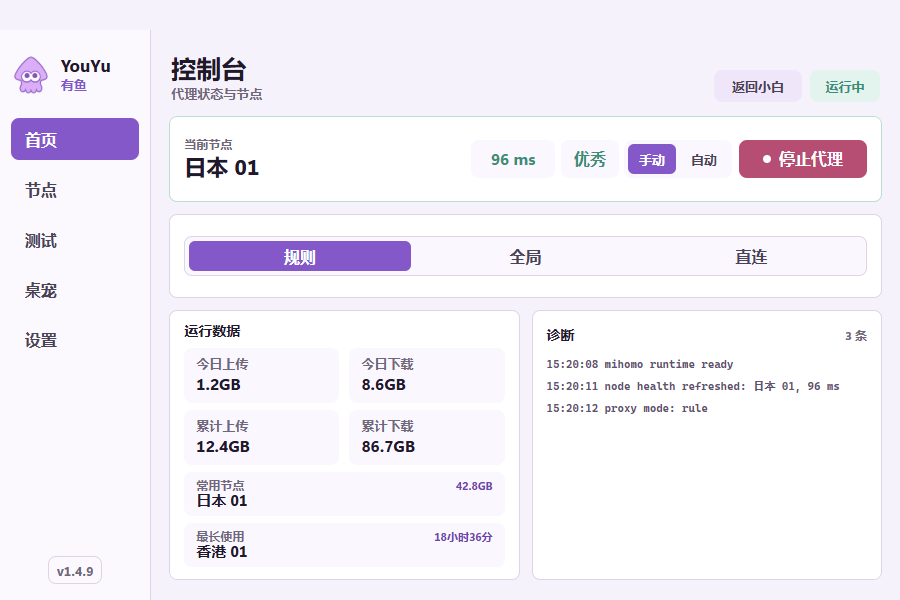
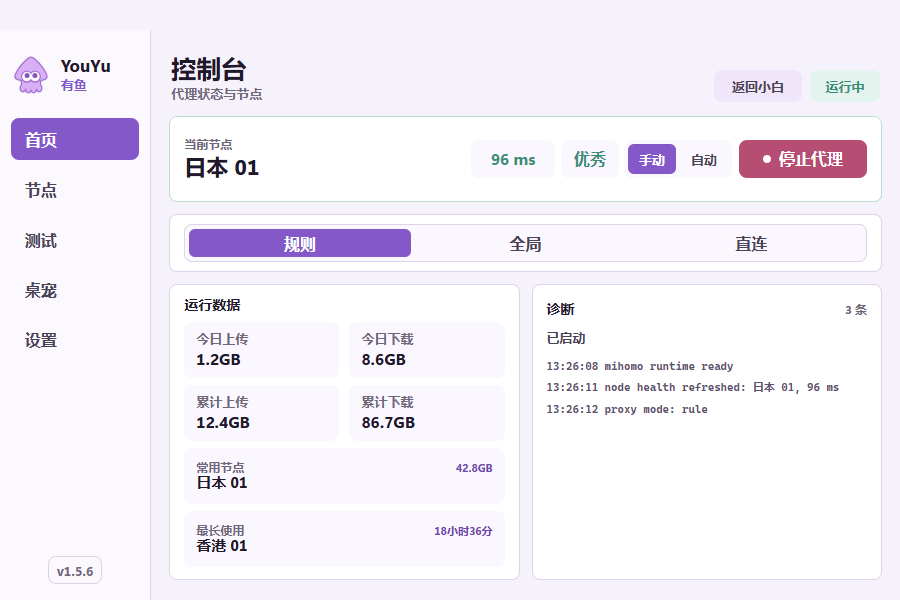
Refresh README for YouYu 1.5.6

diff --git a/README.md b/README.md
@@ -5,13 +5,20 @@
 [![Build Windows](https://github.com/fishknowsss/YouYu/actions/workflows/build-windows.yml/badge.svg)](https://github.com/fishknowsss/YouYu/actions/workflows/build-windows.yml)
 [![Platform](https://img.shields.io/badge/platform-Windows%20x64-0078d4)](https://github.com/fishknowsss/YouYu/releases/latest)
 
-YouYu 是一款面向 Windows x64 的代理桌面客户端。应用基于 Electron、React、TypeScript 和 Vite 构建，内置 Mihomo 运行时，提供代理启停、节点选择与健康检查、连通性测试、流量统计、系统网络修复、自动更新和桌宠交互。
+YouYu 是一款面向 Windows x64 的 Mihomo 桌面客户端，提供代理启停、节点选择与健康检查、连通性测试、流量统计、系统网络修复、自动更新和桌宠交互。
 
-当前发布版本为 `1.5.0`。安装包与更新文件见 [GitHub Releases](https://github.com/fishknowsss/YouYu/releases/latest)。
+当前发布版本为 [`1.5.6`](https://github.com/fishknowsss/YouYu/releases/tag/v1.5.6)。安装包与更新文件见 [GitHub Releases](https://github.com/fishknowsss/YouYu/releases/latest)。
+
+## 1.5.6 当前状态
+
+- 设置页按订阅、三行控制和软件更新组成五行布局，在 `900×600` 默认窗口中保持统一的行高与操作列。
+- 专业首页保留运行数据和实时诊断；测试页可在默认窗口中完整显示 16 项检测。
+- 覆盖安装会先清理 YouYu 设置的系统代理；应用内安装会先完成主进程清理与交接，启动安装器失败时保留更新包以便重试。
+- 更新下载会显示差分包、完整包回退和校验状态，标准版、内部通道版与无桌宠版继续使用独立更新元数据。
 
 ## 界面预览
 
-以下截图均为 `900×600` 默认窗口尺寸，使用开发环境中的虚拟订阅、虚拟节点和演示流量，不包含真实节点、账号或后台数据。
+以下截图均来自 `1.5.6` 的 `900×600` 开发预览。订阅使用 `example.com`，出口 IP 使用 RFC 文档保留地址，节点、流量、测速和诊断内容均为虚构演示数据。
 
 ### 小白模式
 
@@ -21,7 +28,7 @@ YouYu 是一款面向 Windows x64 的代理桌面客户端。应用基于 Electr
 
 ### 专业模式控制台
 
-控制台集中显示当前节点、实时健康状态、代理模式、今日与累计流量、常用节点、最长使用节点和诊断日志。
+控制台集中显示当前节点、实时健康状态、代理模式、今日与累计流量、常用节点、最长使用节点和最新诊断日志。
 
 ![YouYu 专业模式控制台](docs/screenshots/home-advanced.png)
 
@@ -45,7 +52,7 @@ YouYu 是一款面向 Windows x64 的代理桌面客户端。应用基于 Electr
 
 ### 设置
 
-设置页提供订阅、规则来源、后台刷新、TUN、系统代理、DNS 增强、流量识别、同步、修复和软件更新入口。
+设置页以五行布局组织订阅、规则来源、后台刷新、TUN、系统代理、DNS 增强、流量识别、同步、修复和软件更新。
 
 ![YouYu 设置页](docs/screenshots/settings.png)
 
@@ -70,7 +77,7 @@ YouYu 是一款面向 Windows x64 的代理桌面客户端。应用基于 Electr
 
 - 分别显示今日上传、今日下载、累计上传和累计下载。
 - 记录按流量计算的常用节点，以及按连接时长计算的最长使用节点。
-- 本地持续采集 Mihomo 流量，网络异常时保留待上报增量，避免统计被直接丢弃。
+- 本地持续采集 Mihomo 流量，网络异常时保留待上报增量；上报批次使用持久化幂等 ID，避免响应丢失后重复累计。
 - 完成使用登记后，累计流量与远端流量后台同步；身份匹配时以后台累计值为基准，并叠加尚未确认的本地增量。
 - 今日流量按本机日期切换统计，累计流量与当天流量采用不同口径。
 
@@ -83,7 +90,7 @@ YouYu 是一款面向 Windows x64 的代理桌面客户端。应用基于 Electr
 - GitHub、Microsoft 商店、Discord、Google 和 Cloudflare。
 - Cloudflare Turnstile、Google reCAPTCHA 与 hCaptcha。
 
-测试结果包含可用状态、HTTP 状态、耗时、出口 IP、归属地、最终地址、命中规则和策略链。执行连通性测试前需要先启动代理。
+测试结果包含可用状态、HTTP 状态、耗时、出口 IP、归属地、最终地址、命中规则和策略链。16 项结果可在 `900×600` 默认窗口中完整显示；执行测试前需要先启动代理。
 
 ### 桌宠
 
@@ -100,13 +107,15 @@ YouYu 是一款面向 Windows x64 的代理桌面客户端。应用基于 Electr
 - 支持 TUN；启用后使用严格路由。
 - 显示系统代理、DNS 增强和流量识别状态。
 - “修复”会停止当前 Mihomo 运行时、关闭 YouYu 设置的 WinINET 代理、重置 WinHTTP 代理、刷新 DNS 缓存，并检查 Microsoft Store 回环豁免。
+- 覆盖安装强制关闭应用前会先清理 YouYu 设置的系统代理，避免 Mihomo 已退出而系统仍指向本地代理端口。
 - 修复针对代理残留、DNS 缓存和商店回环等常见问题，不替代网卡驱动、路由器或运营商故障排查。
 
 ### 自动更新
 
 - 使用 `electron-updater` 检查和下载更新。
 - 标准版、内部通道版和无桌宠版使用独立的更新元数据，避免跨通道安装。
-- 支持应用内检查更新、下载进度、完整性校验和安装。
+- 支持应用内检查更新、差分下载、完整包回退、下载进度、完整性校验和安装。
+- 安装前先完成主进程清理与 IPC 交接；安装器启动失败时保留已下载文件，用户可以直接重试。
 - 发布时同时上传安装包、差分更新所需的 `.blockmap` 和对应 `latest*.yml`。
 
 ## 安装与使用
